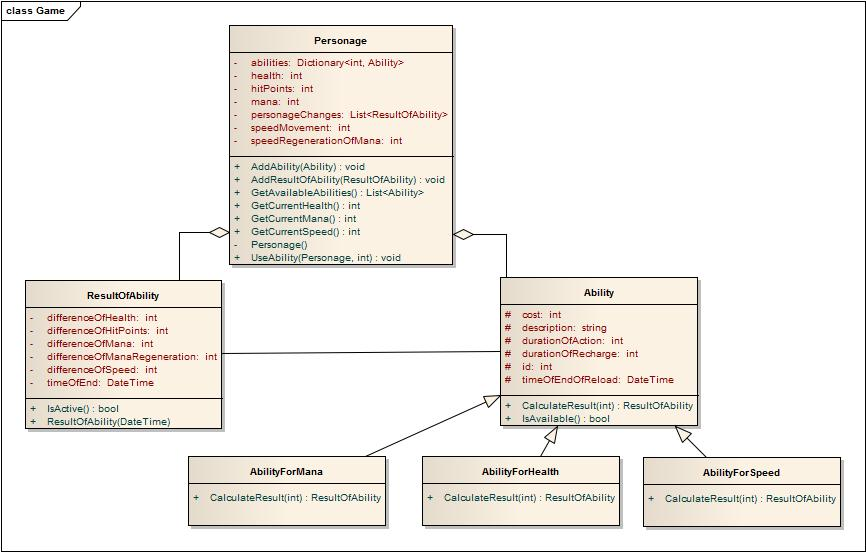
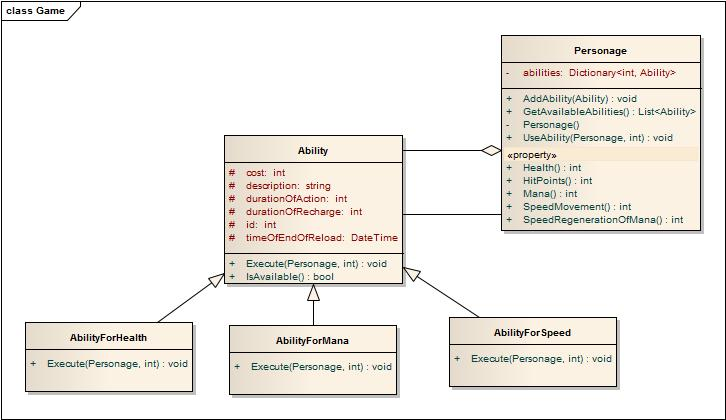
Changed Game, deleted history

diff --git a/Game/Game/Personage.cs b/Game/Game/Personage.cs
@@ -8,68 +8,36 @@ namespace Game
 {
     class Personage
     {
-        private int hitPoints;
-        private int health;
-        private int speedMovement;
-        private int speedRegenerationOfMana;
-        private int mana;
+        public int HitPoints { get; set; }
+        public int Health { get; set; }
+        public int SpeedMovement { get; set; }
+        public int SpeedRegenerationOfMana { get; set; }
+        public int Mana { get; set; }
 
         private Dictionary<int, Ability> abilities;
-        private List<ResultOfAbility> personageChanges;
 
         Personage()
         {
         }
 
-        public int GetCurrentHealth()
-        {
-            int currentHelth = health;
-            //перебираем все действующие к персонажу результаты способностей (personageChanges)
-            //берём только differenceOfHealth из каждого ResultOfAbility
-            //рассчитываем currentHelth
-            return currentHelth;
-        }
-
-        public int GetCurrentSpeed()
-        {
-            int currentSpeed = speedMovement;
-            //перебираем все действующие к персонажу результаты способностей (personageChanges)
-            //берём только differenceOfSpeed из каждого ResultOfAbility
-            //рассчитываем currentSpeed
-            return currentSpeed;
-        }
-
-        public int GetCurrentMana()
-        {
-            int currentMana = mana;
-            //перебираем все действующие к персонажу результаты способностей (personageChanges)
-            //берём только differenceOfMana из каждого ResultOfAbility
-            //рассчитываем currentMana
-            return currentMana;
-        }
-
         public void UseAbility(Personage personage, int id)
         {
-            //первый аргумент - на кого применяем способность, второй - id способности, которую применяем    
-            //находим в Dictionary необходимую способность    
-            //у текущего персонажа списываем стоимость применённой спобности
-            //и прибавляем действующие на него последствия способности, которые рассчитываются, то есть
+            // Первый аргумент - на кого применяем способность, второй - id способности, которую применяем.    
+            // Находим в Dictionary необходимую способность.    
+            // У текущего персонажа списываем стоимость применённой спобности.
+            // Прибавляем действующие на него последствия способности, которые рассчитываются, то есть:
 
-            //Ability ability = abilities[id];
-            //AddResultOfAbility(ability.CalculateResult());
+            // Ability ability = abilities[id];
+            // AddResultOfAbility(ability.CalculateResult());
         }
 
         public void AddAbility(Ability ability)
         {
         }
 
-        public void AddResultOfAbility(ResultOfAbility resultOfAbility)
-        {
-        }
-
         public List<Ability> GetAvailableAbilities()
         {
-            //перебираем все имеющиеся способности и формируем список доступных
+            // Перебираем все имеющиеся способности и формируем список доступных.
             return null;
         }
 

diff --git a/Game/Game/Ability.cs b/Game/Game/Ability.cs
@@ -19,14 +19,12 @@ namespace Game
 
         public bool IsAvailable() 
         {
-            //доступность способности
-            //если время конца перезарядки больше чем текущее, то способность дотупна
+            // Если время конца перезарядки больше чем текущее, то способность дотупна.
             return true;
         }
 
-        public virtual ResultOfAbility CalculateResult(int difference)
+        public virtual void Execute(Personage personage, int difference)
         {
-            return null;
         }
 
     }

diff --git a/Game/Game/AbilityForMana.cs b/Game/Game/AbilityForMana.cs
@@ -6,14 +6,11 @@ using System.Threading.Tasks;
 
 namespace Game
 {
-    class AbilityForMana:Ability //разновидность способности
+    class AbilityForMana : Ability
     {
-        public override ResultOfAbility CalculateResult(int difference)
+        public override void Execute(Personage personage, int difference)
         {
-            //у данного вида способности другие последствия
-            //конкретно меняющие кол-во маны
-            //resultOfAbility.differenceOfMana = difference;
-            return null;
+            personage.Mana += difference;
         }
     }
 }

diff --git a/Game/Game/AbilityForHealth.cs b/Game/Game/AbilityForHealth.cs
@@ -8,10 +8,9 @@ namespace Game
 {
     class AbilityForHealth: Ability
     {
-        public override ResultOfAbility CalculateResult(int difference)
+        public override void Execute(Personage personage, int difference)
         {
-            //resultOfAbility.differenceOfHealth = difference;
-            return null;
+            personage.Health += difference;          
         }
     }
 }

diff --git a/Game/Game/AbilityForSpeed.cs b/Game/Game/AbilityForSpeed.cs
@@ -8,10 +8,9 @@ namespace Game
 {
     class AbilityForSpeed:Ability
     {
-        public override ResultOfAbility CalculateResult(int difference)
+        public override void Execute(Personage personage, int difference)
         {
-            //resultOfAbility.differenceOfSpeed = difference;
-            return null;
+            personage.SpeedMovement += difference;
         }
     }
 }
